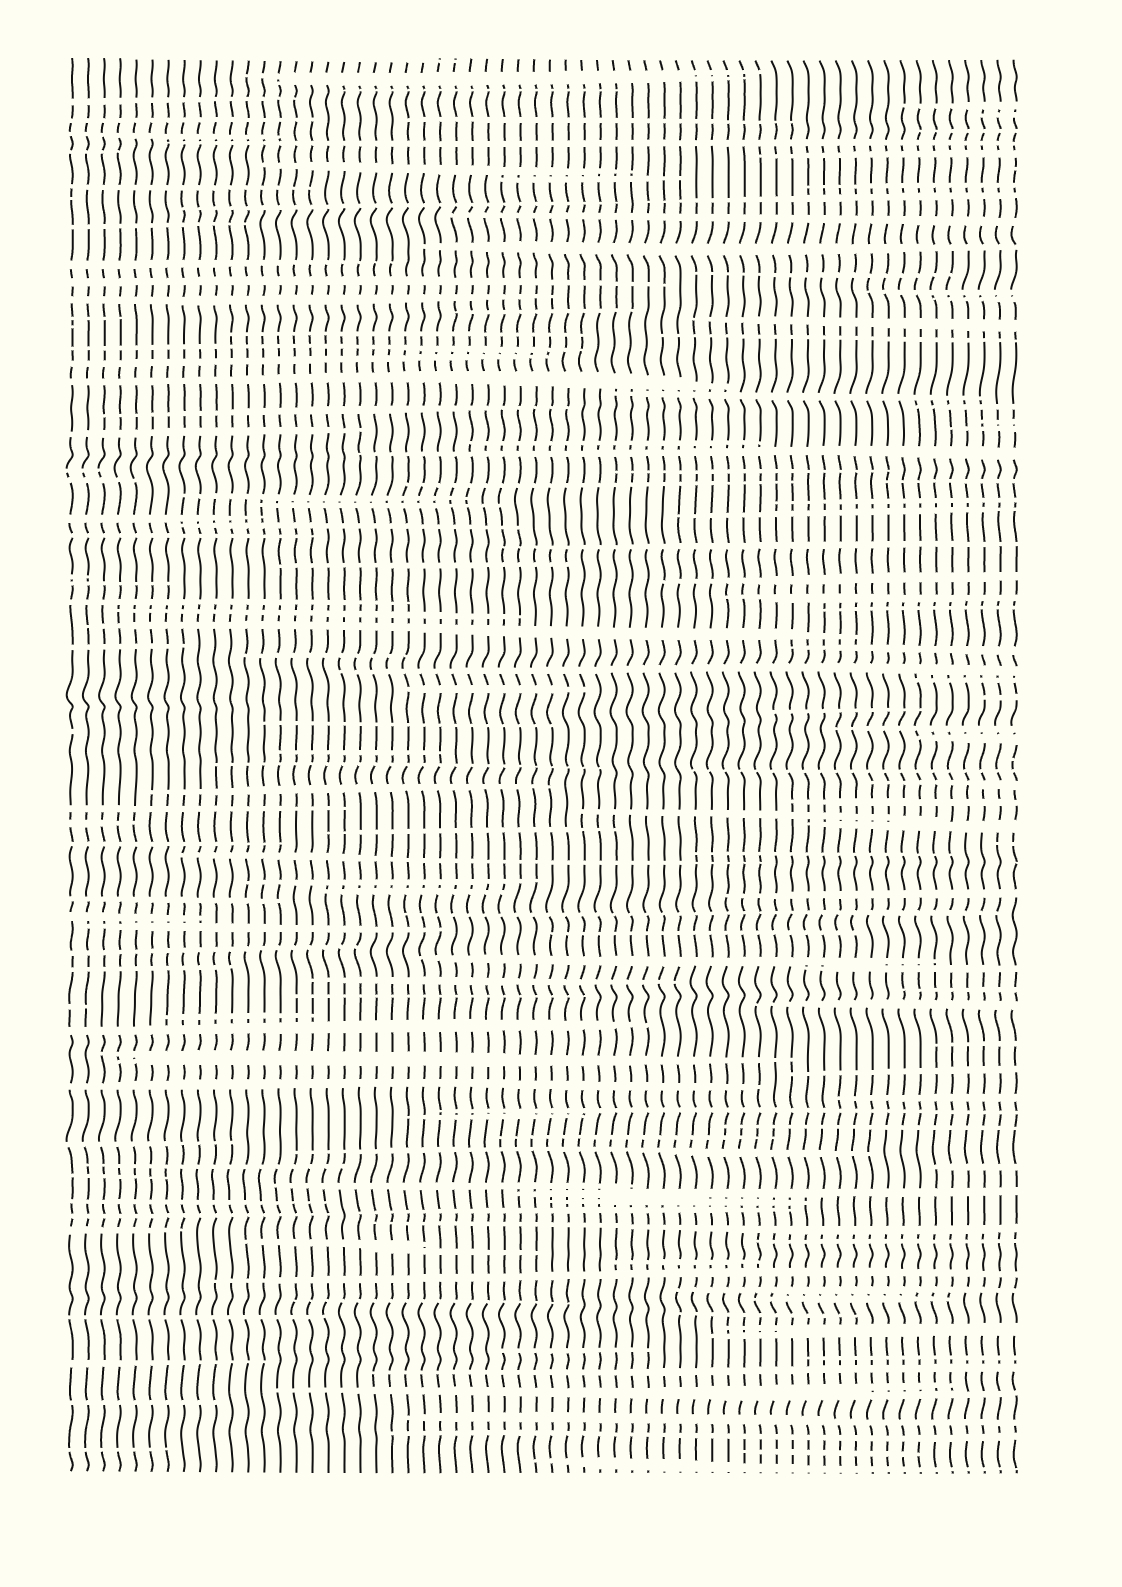
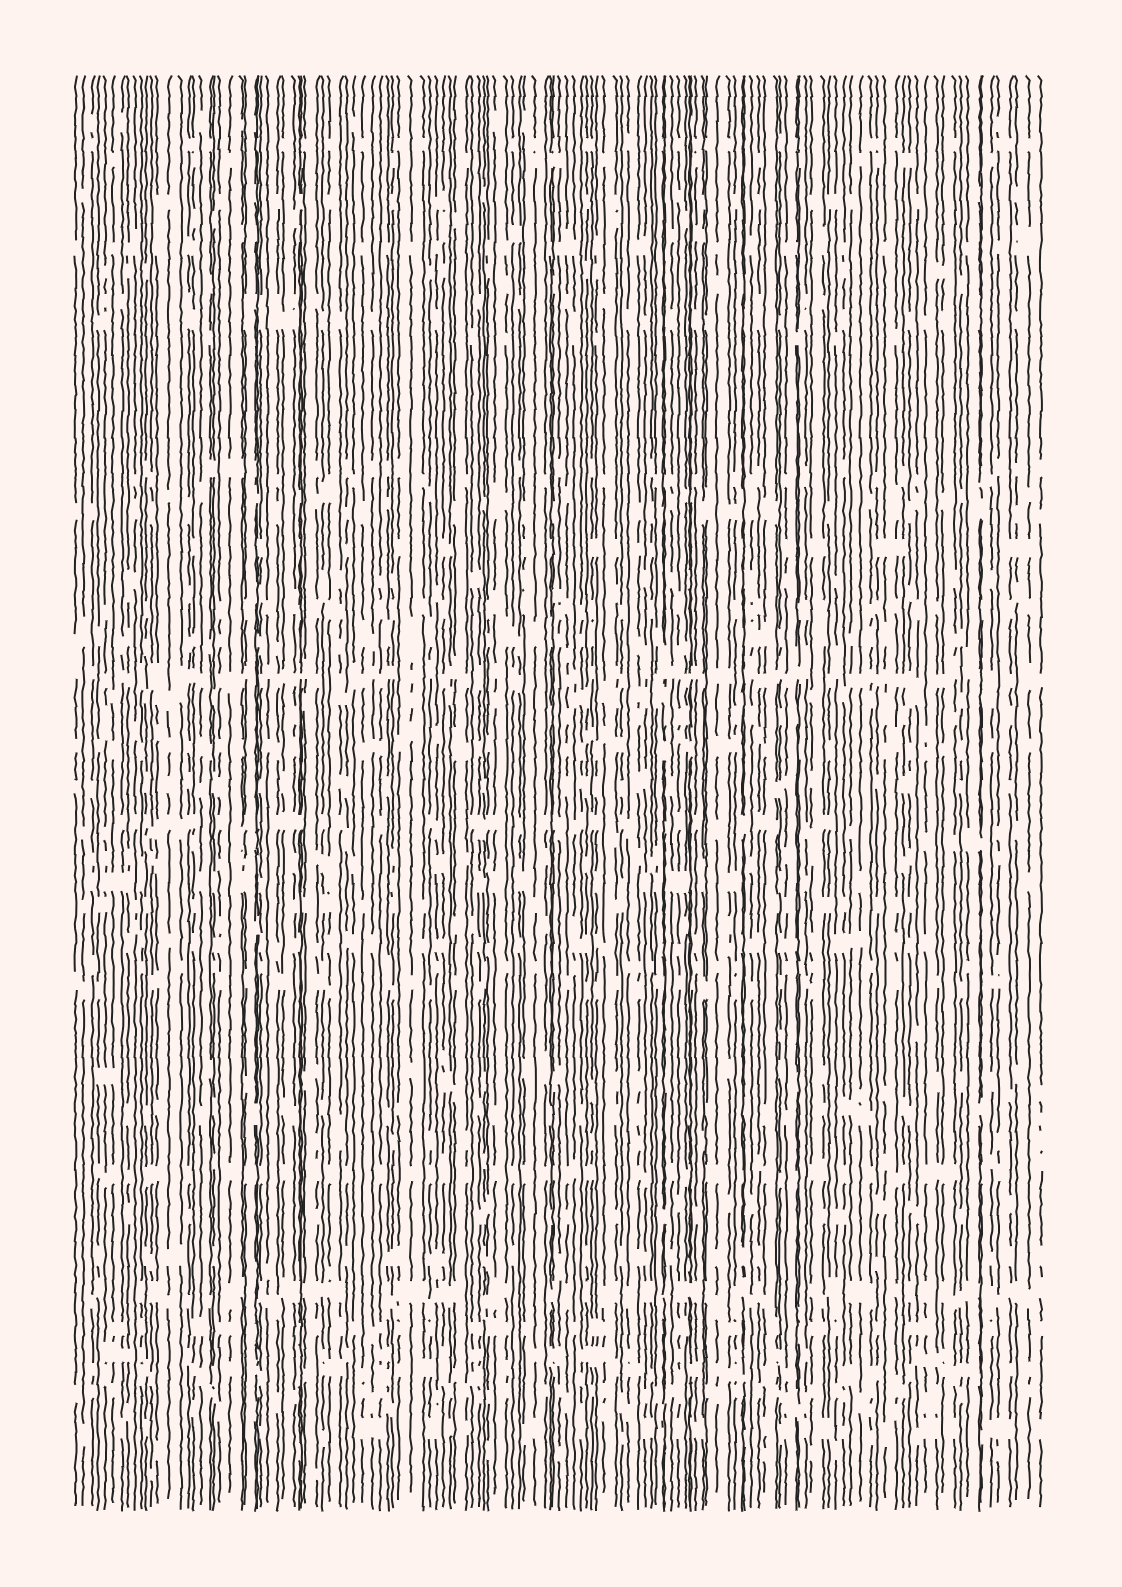
redirect to index if no referer or not the same domain + glitchText on gallery/index project text

diff --git a/sketch/page-148/index.js b/sketch/page-148/index.js
@@ -14,48 +14,51 @@ const DPI = quantity(96, dpi), // default settings in inkscape
     ROOT = document.getElementById('windowFrame'),
     CANVAS = document.createElement('canvas'),
     CTX = CANVAS.getContext('2d'),
-    NSCALE = 0.0009
+    NSCALE = [0.000007, 0.3]
 
 let drawElems, step, noise
 
 ROOT.appendChild(CANVAS)
 
 const init = () => {
-    step = Math.ceil(2 + Math.random() * 3) * 3
+    step = Math.ceil(4 + Math.random() * 4) * 4
     noise = createNoise2D()
     CANVAS.width = SIZE[0]
     CANVAS.height = SIZE[1]
 
     const lines = []
-    for (let x = MARGIN - step; x < SIZE[0] - MARGIN; x += step) {
-        let line = [],
-            penDown = true,
-            lastPenUpY = 0
-        for (let y = MARGIN; y < SIZE[1] - MARGIN; y++) {
-            const n1 = noise(x * NSCALE * 0.5, y * NSCALE * 75)
-            if (n1 >= -0.7) {
-                if (penDown) {
-                    const n2 = noise(x * NSCALE * 2, lastPenUpY + (line.length * NSCALE * 10))
-                    line.push([
-                        x + Math.cos(n2) * step,
-                        y //+ Math.sin(n2) * step * 0.33
-                    ])
-                }
-                penDown = true
+    let x = MARGIN,
+        n = noise(x * NSCALE[0], MARGIN * NSCALE[1])
+
+    while (x < SIZE[0] - MARGIN) {
+        let y = MARGIN,
+            dx = step * Math.sin(n) * 0.15,
+            line = [],
+            penDown = 1
+
+        while (y < SIZE[1] - MARGIN) {
+            n = noise(x * NSCALE[0], y * NSCALE[1])
+            if (Math.abs(n) <= 0.8) {
+                penDown = 1
             } else {
-                penDown = false
-                lastPenUpY = y
-                if (line.length) lines.push(line)
-                line = []
+                if (penDown === 1) {
+                    line.length && lines.push(line)
+                    line = []
+                }
+                penDown = penDown < -3 ? 1 : penDown - 1
             }
+            penDown === 1 && line.push([dx + x, y])
+            dx = step * n * 0.05
+            y += step * Math.max(0.005, Math.abs(n) * 0.5)
         }
         if (line.length) lines.push(line)
+        x += step * Math.max(0.005, Math.abs(n) * 0.5)
     }
 
     drawElems = [
-        rect(SIZE, { fill: '#fefef3' }),
+        rect(SIZE, { fill: '#fff3ef' }),
         group(
-            { stroke: '#111', weight: 2 },
+            { stroke: '#222', weight: 2 },
             lines.map((l) => polyline(l))
         )
     ]

diff --git a/src/components/ProjectCaption.vue b/src/components/ProjectCaption.vue
@@ -1,6 +1,8 @@
 <script lang="ts">
 import type { PropType } from 'vue' 
 import type { Project } from '../project'
+// @ts-ignore
+import GlitchText from '../../sketch-common/glitchText'
 export default {
   props: {
     project: {
@@ -10,20 +12,35 @@ export default {
     index: {
       type: Number
     }
+  },
+  methods: {
+    GlitchText
   }
 }
 </script>
 <template>
   <div class="project-caption"> 
-    <button class="project-caption--title" @click.prevent="$emit('openProject', project.src)">
+    <button 
+      :ref="(element) => new GlitchText({ element, effect: 'replace'})" 
+      class="project-caption--title"
+      :data-text="project.title"
+      @click.prevent="$emit('openProject', project.src)">
       {{ project.title }}
     </button>
     <div class="project-caption--meta">
       <div class="date">
-        <strong>Created:</strong> <span>{{ project.date }}</span>
+        <strong>Created:</strong> <span 
+          :data-text="project.date" 
+          :ref="(element) => new GlitchText({ element, effect: 'add'})">
+          {{ project.date }}
+        </span>
       </div>
       <div class="topic">
-        <strong>Topic:</strong> <span>{{ project.topic }}</span>
+        <strong>Topic:</strong> <span 
+          :data-text="project.topic"
+          :ref="(element) => new GlitchText({ element, effect: 'add'})">
+          {{ project.topic }}
+        </span>
       </div>
     </div>
   </div>

diff --git a/sketch-common/handle-action.js b/sketch-common/handle-action.js
@@ -11,6 +11,19 @@ const handleAction = () => {
             })
         }
     }
+    window['back'] = () => {
+        // Check if user comes from the index (browser history) then redirect him to index
+        if (
+            document.referrer &&
+            document.referrer.indexOf(
+                location.protocol + '//' + location.host
+            ) > -1
+        ) {
+            history.back()
+        } else {
+            window.location.href = '/'
+        }
+    }
     const buttons = document.querySelectorAll('button[data-action]')
 
     if (typeof buttons != 'undefined') {

diff --git a/sketch-template.html b/sketch-template.html
@@ -253,7 +253,7 @@
   <nav id="iconav">
     <ul>
       <li>
-        <button title="HOME" onclick="history.back()">
+        <button title="HOME" data-action="back">
           <span class="screen-reader-text">Back</span><svg class="icon icon-home">
             <use xlink:href="#icon-home"></use>
           </svg>
